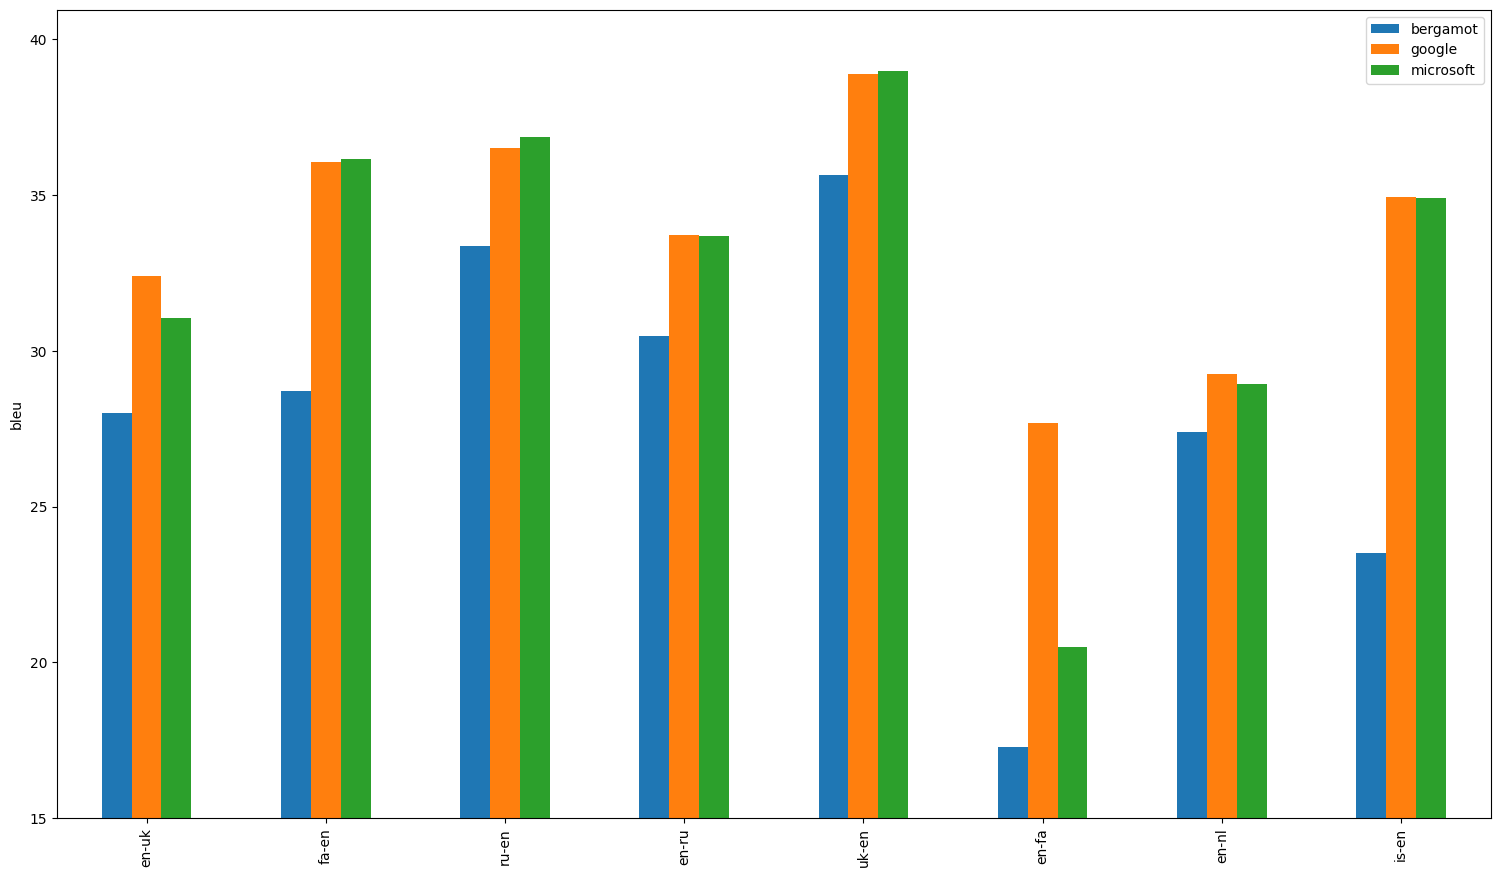
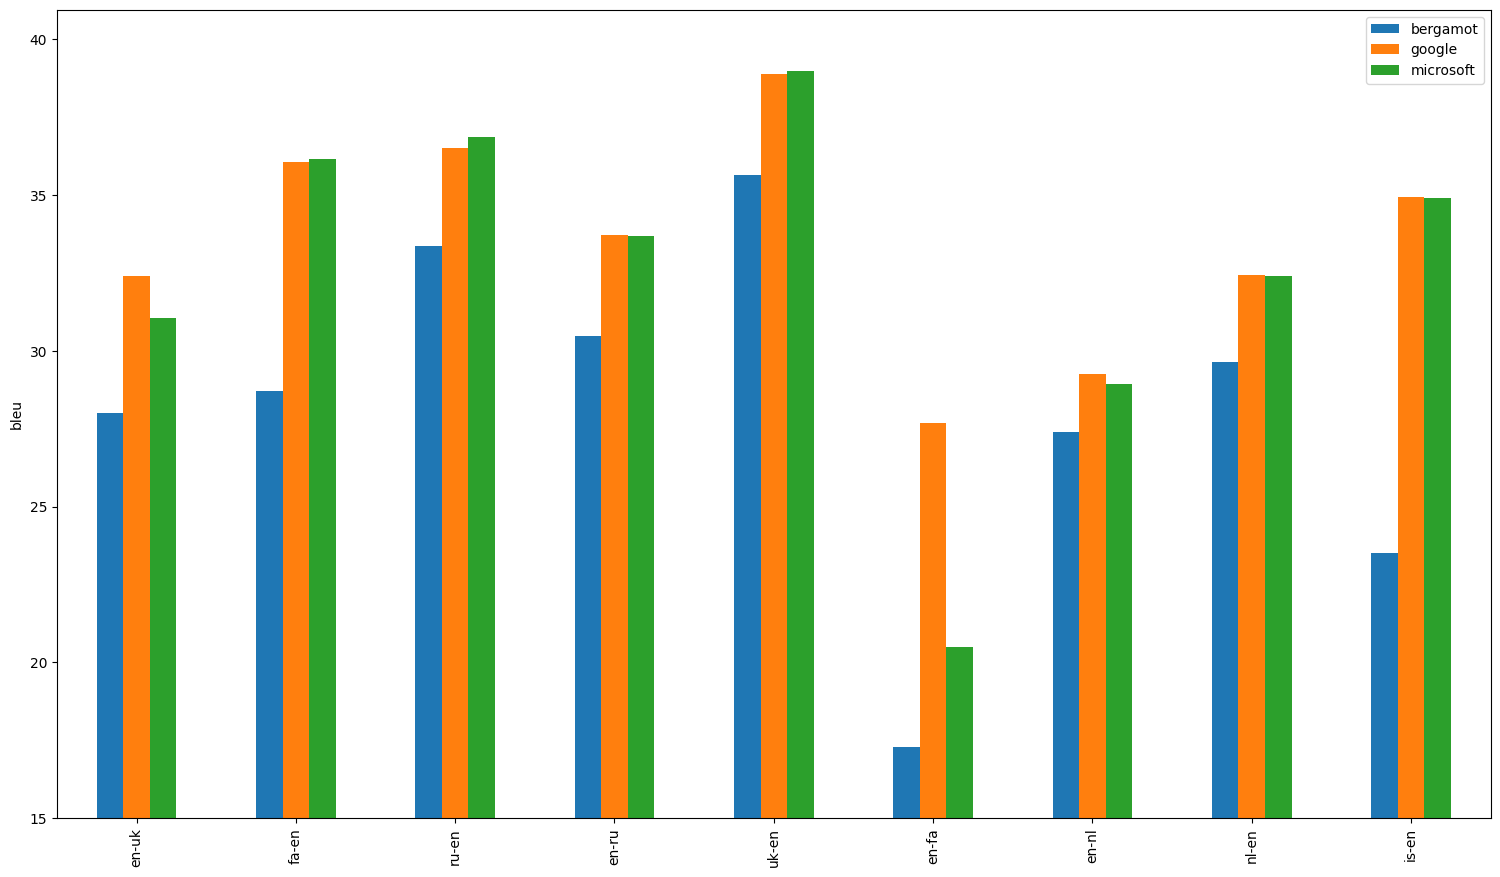
Add Dutch to English (#60)
* Add Dutch to English

* Add Dutch to English models

* Update evaluation results [skip ci]

* Update model registry [skip ci]

diff --git a/evaluation/dev/results.md b/evaluation/dev/results.md
@@ -57,11 +57,11 @@ Both absolute and relative differences in BLEU scores between Bergamot and other
 
 ## avg
 
-| Translator/Dataset | en-uk | fa-en | ru-en | en-ru | uk-en | en-fa | en-nl | is-en |
-| --- | --- | --- | --- | --- | --- | --- | --- | --- |
-| bergamot | 28.00 | 28.70 | 33.37 | 30.47 | 35.65 | 17.30 | 27.40 | 23.50 |
-| google | 32.40 (+4.40, +15.71%) | 36.05 (+7.35, +25.61%) | 36.53 (+3.15, +9.45%) | 33.72 (+3.25, +10.67%) | 38.90 (+3.25, +9.12%) | 27.70 (+10.40, +60.12%) | 29.25 (+1.85, +6.75%) | 34.95 (+11.45, +48.72%) |
-| microsoft | 31.05 (+3.05, +10.89%) | 36.15 (+7.45, +25.96%) | 36.87 (+3.50, +10.49%) | 33.68 (+3.21, +10.53%) | 39.00 (+3.35, +9.40%) | 20.50 (+3.20, +18.50%) | 28.95 (+1.55, +5.66%) | 34.90 (+11.40, +48.51%) |
+| Translator/Dataset | en-uk | fa-en | ru-en | en-ru | uk-en | en-fa | en-nl | nl-en | is-en |
+| --- | --- | --- | --- | --- | --- | --- | --- | --- | --- |
+| bergamot | 28.00 | 28.70 | 33.37 | 30.47 | 35.65 | 17.30 | 27.40 | 29.65 | 23.50 |
+| google | 32.40 (+4.40, +15.71%) | 36.05 (+7.35, +25.61%) | 36.53 (+3.15, +9.45%) | 33.72 (+3.25, +10.67%) | 38.90 (+3.25, +9.12%) | 27.70 (+10.40, +60.12%) | 29.25 (+1.85, +6.75%) | 32.45 (+2.80, +9.44%) | 34.95 (+11.45, +48.72%) |
+| microsoft | 31.05 (+3.05, +10.89%) | 36.15 (+7.45, +25.96%) | 36.87 (+3.50, +10.49%) | 33.68 (+3.21, +10.53%) | 39.00 (+3.35, +9.40%) | 20.50 (+3.20, +18.50%) | 28.95 (+1.55, +5.66%) | 32.40 (+2.75, +9.27%) | 34.90 (+11.40, +48.51%) |
 
 ![Results](img/avg.png)
 
@@ -134,6 +134,16 @@ Both absolute and relative differences in BLEU scores between Bergamot and other
 | microsoft | 29.30 (+1.70, +6.16%) | 28.60 (+1.40, +5.15%) |
 
 ![Results](img/en-nl.png)
+
+## nl-en
+
+| Translator/Dataset | flores-dev | flores-test |
+| --- | --- | --- |
+| bergamot | 29.50 | 29.80 |
+| google | 32.30 (+2.80, +9.49%) | 32.60 (+2.80, +9.40%) |
+| microsoft | 32.50 (+3.00, +10.17%) | 32.30 (+2.50, +8.39%) |
+
+![Results](img/nl-en.png)
 
 ## is-en
 

diff --git a/README.md b/README.md
@@ -90,7 +90,5 @@ Suffix of the model file in the registry:
 - Icelandic -> English
 - Norwegian Nynorsk -> English
 - Ukrainian <-> English
-- Dutch <- English
+- Dutch <-> English
 
-## Upcoming
-- Dutch -> English
